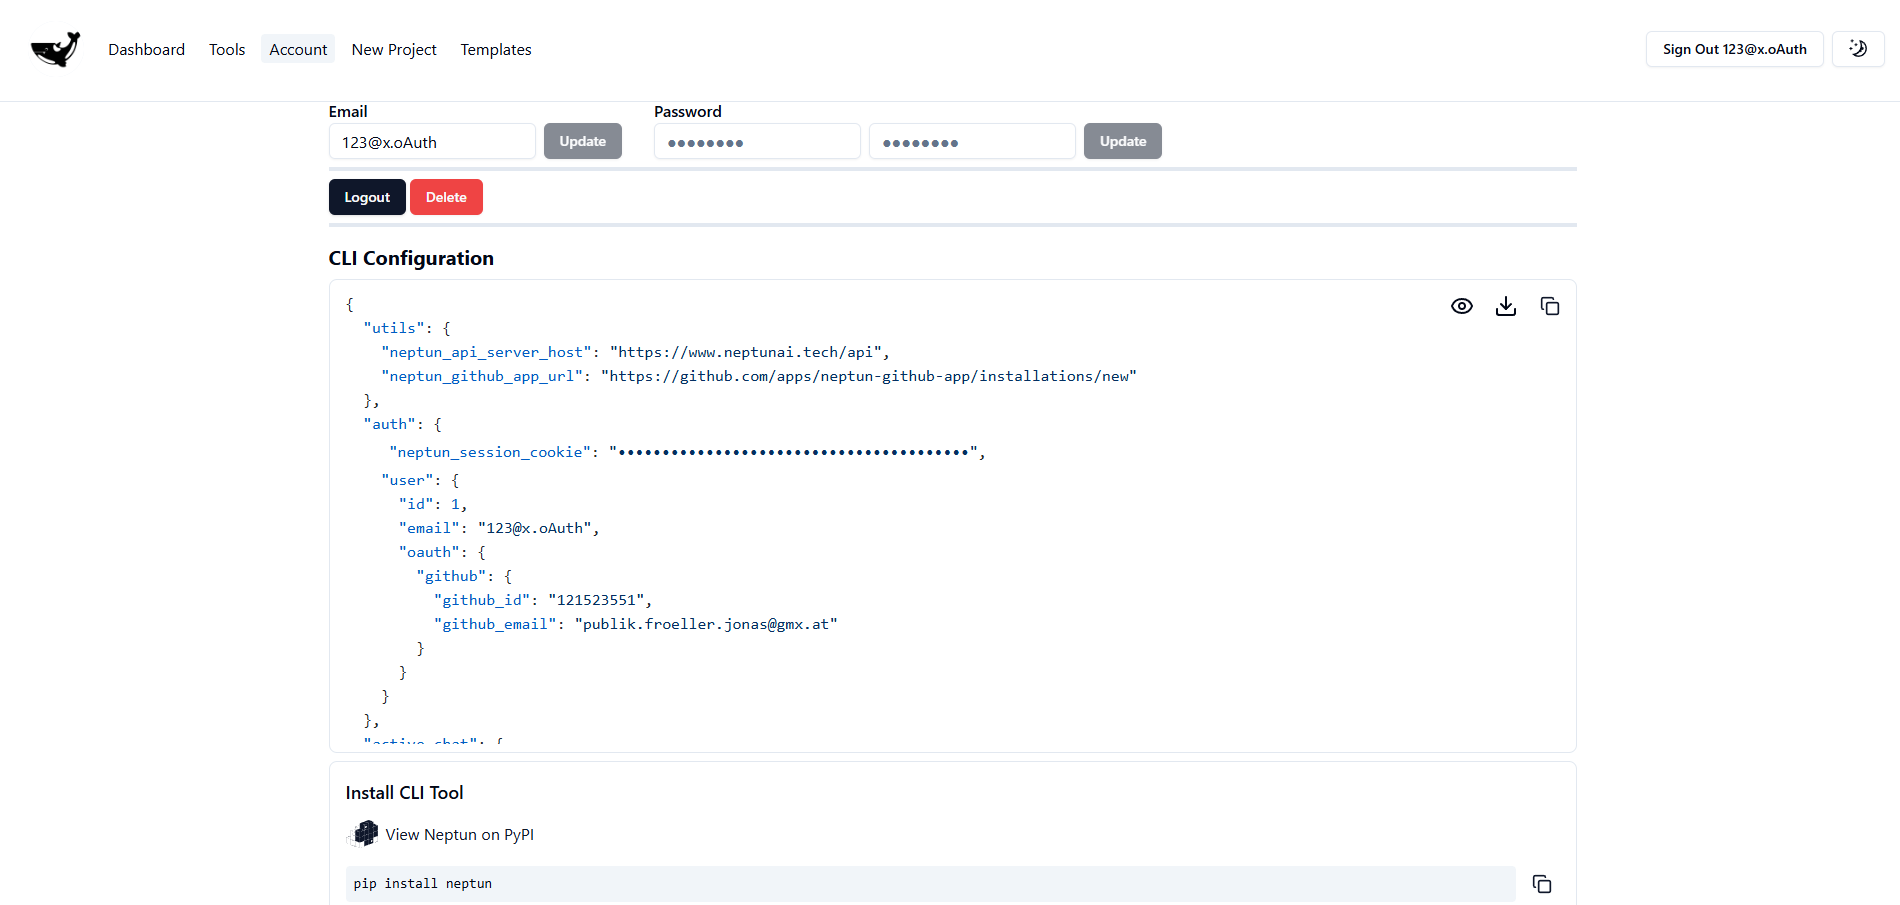
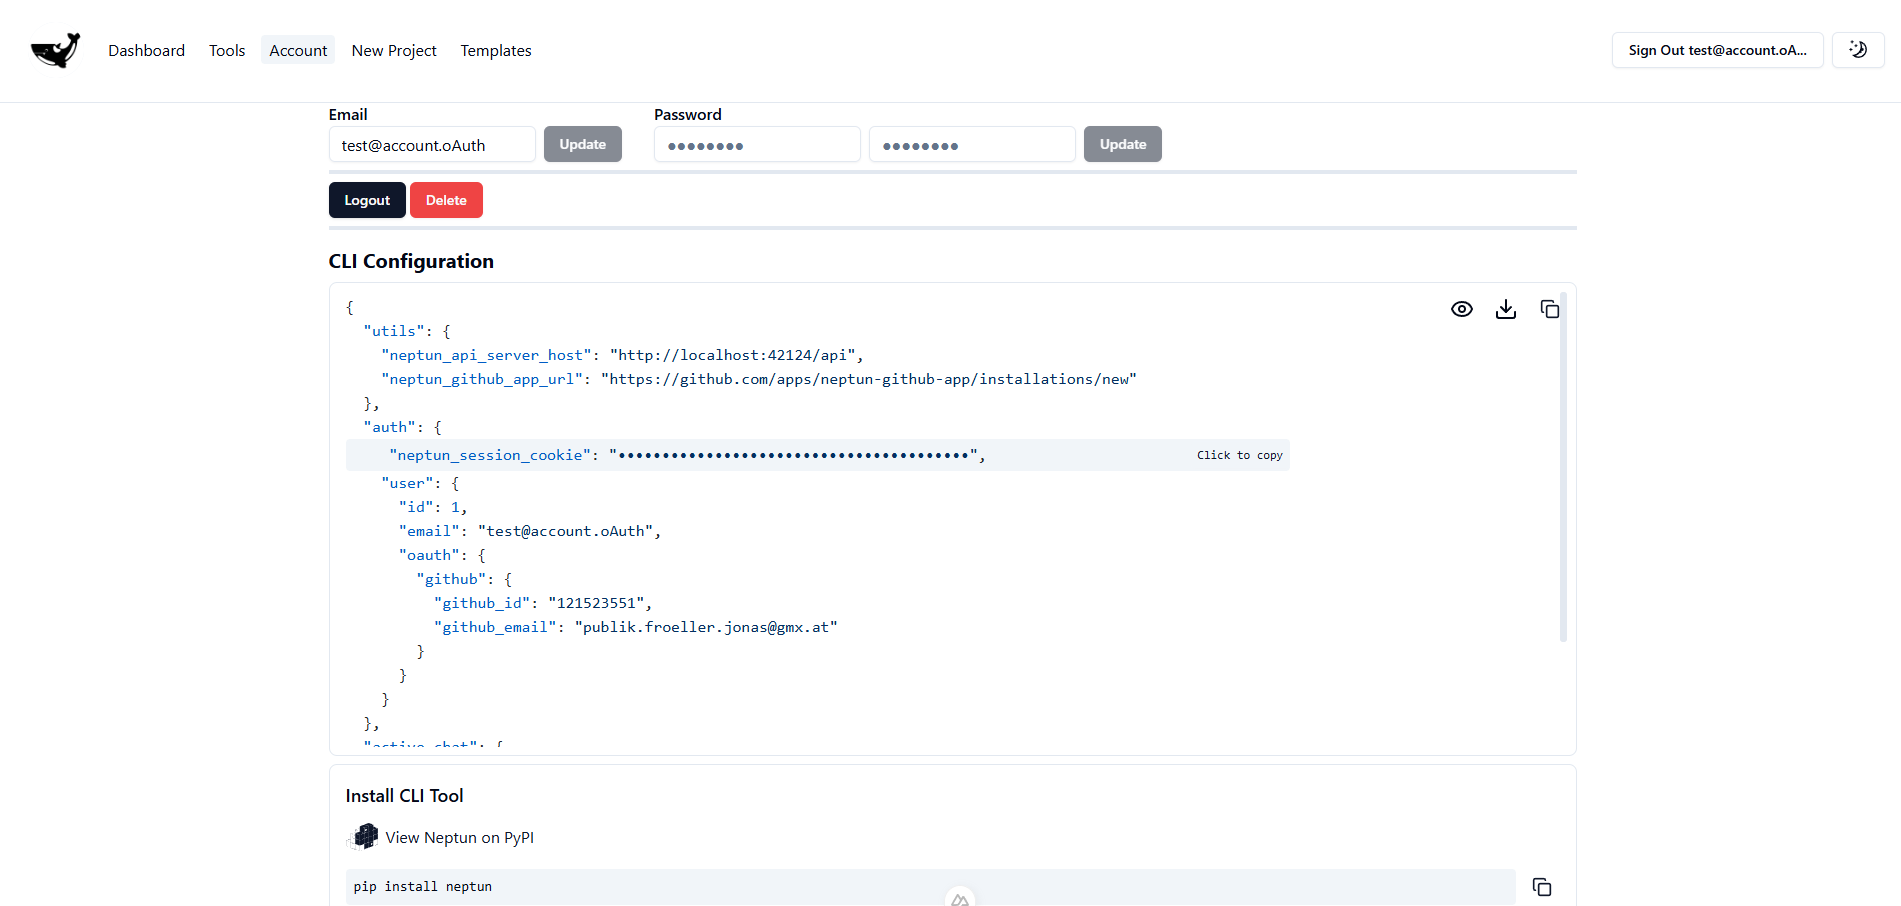
deletes Stevan's part and updates account info image

diff --git a/slides.md b/slides.md
@@ -121,31 +121,6 @@ transition: slide-left
 ---
 
 ---
-src: ./slides/stevan.md
-transition: slide-left
----
-
----
-src: ./slides/scraped-urls.md
-transition: slide-up
----
-
----
-src: ./slides/scraping.md
-transition: slide-up
----
-
----
-src: ./slides/ai.md
-transition: slide-up
----
-
----
-src: ./slides/challenges.md
-transition: slide-up
----
-
----
 src: ./slides/outro.md
 transition: slide-left
 ---
